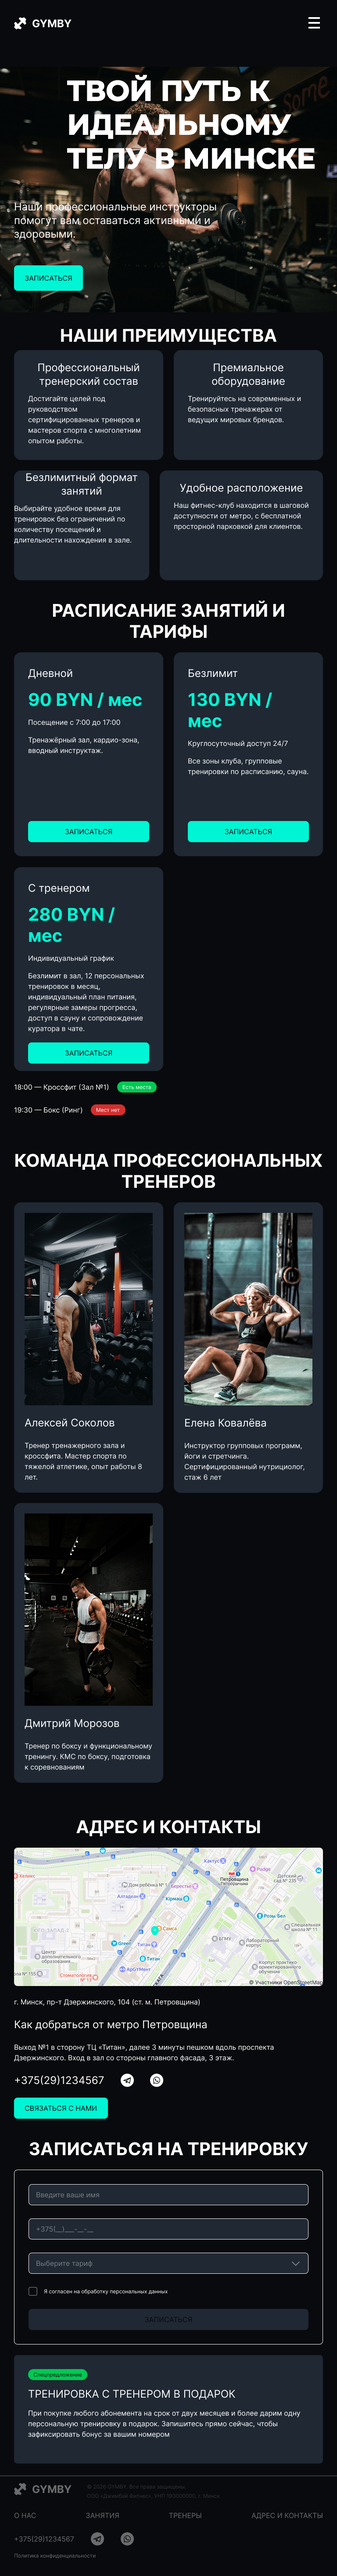
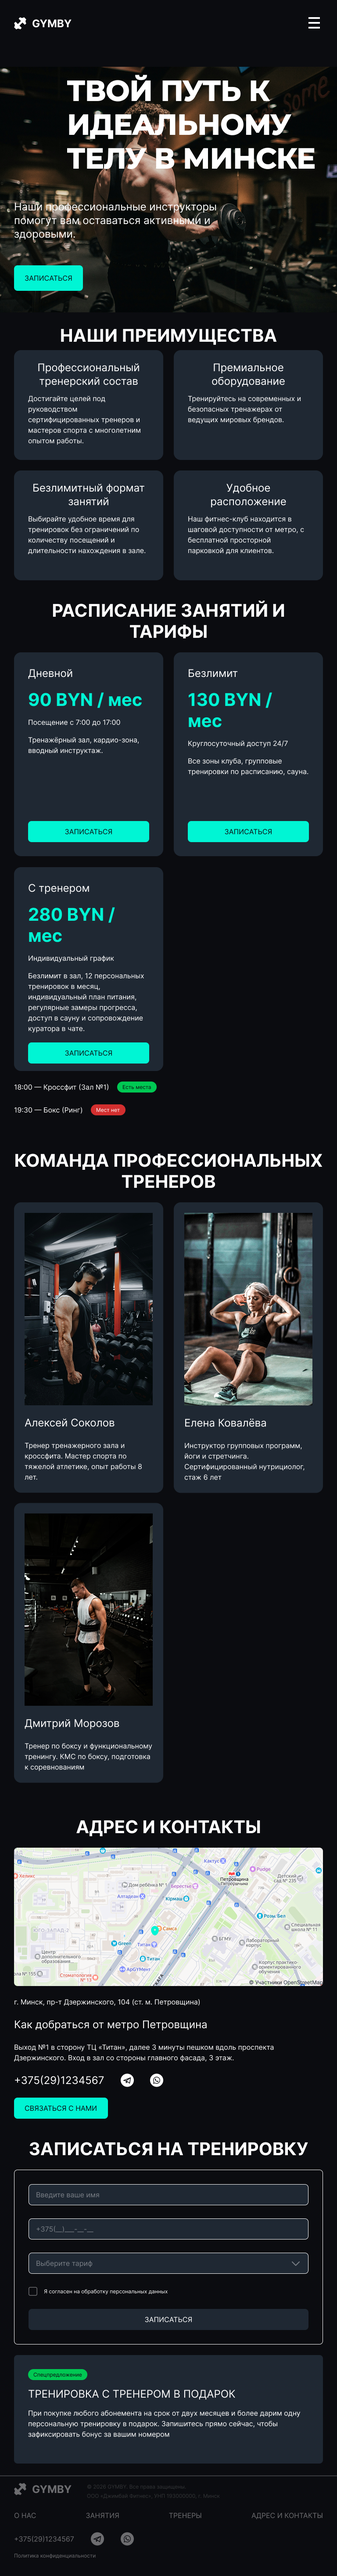
feat: modify images

Changed region(s): [[0.4375, 0.156, 0.9062, 0.2497], [0.0625, 0.1872, 0.4062, 0.2185]]

diff --git a/Yarahovich_team/components.md b/Yarahovich_team/components.md
@@ -21,4 +21,4 @@
 *   **Результат:** Тест пройден успешно. Настройки родительских контейнеров `Height: Hug contents` отработали корректно. Сравнительные скриншоты зафиксированы в файлах `exports/stress-test-before.png` и `exports/stress-test-after.png`.
 
 ---
-*Составил: [ФИО студента, отвечавшего за компоненты и стресс-тест]*
+*Составил: Жижа Иван Романович*
